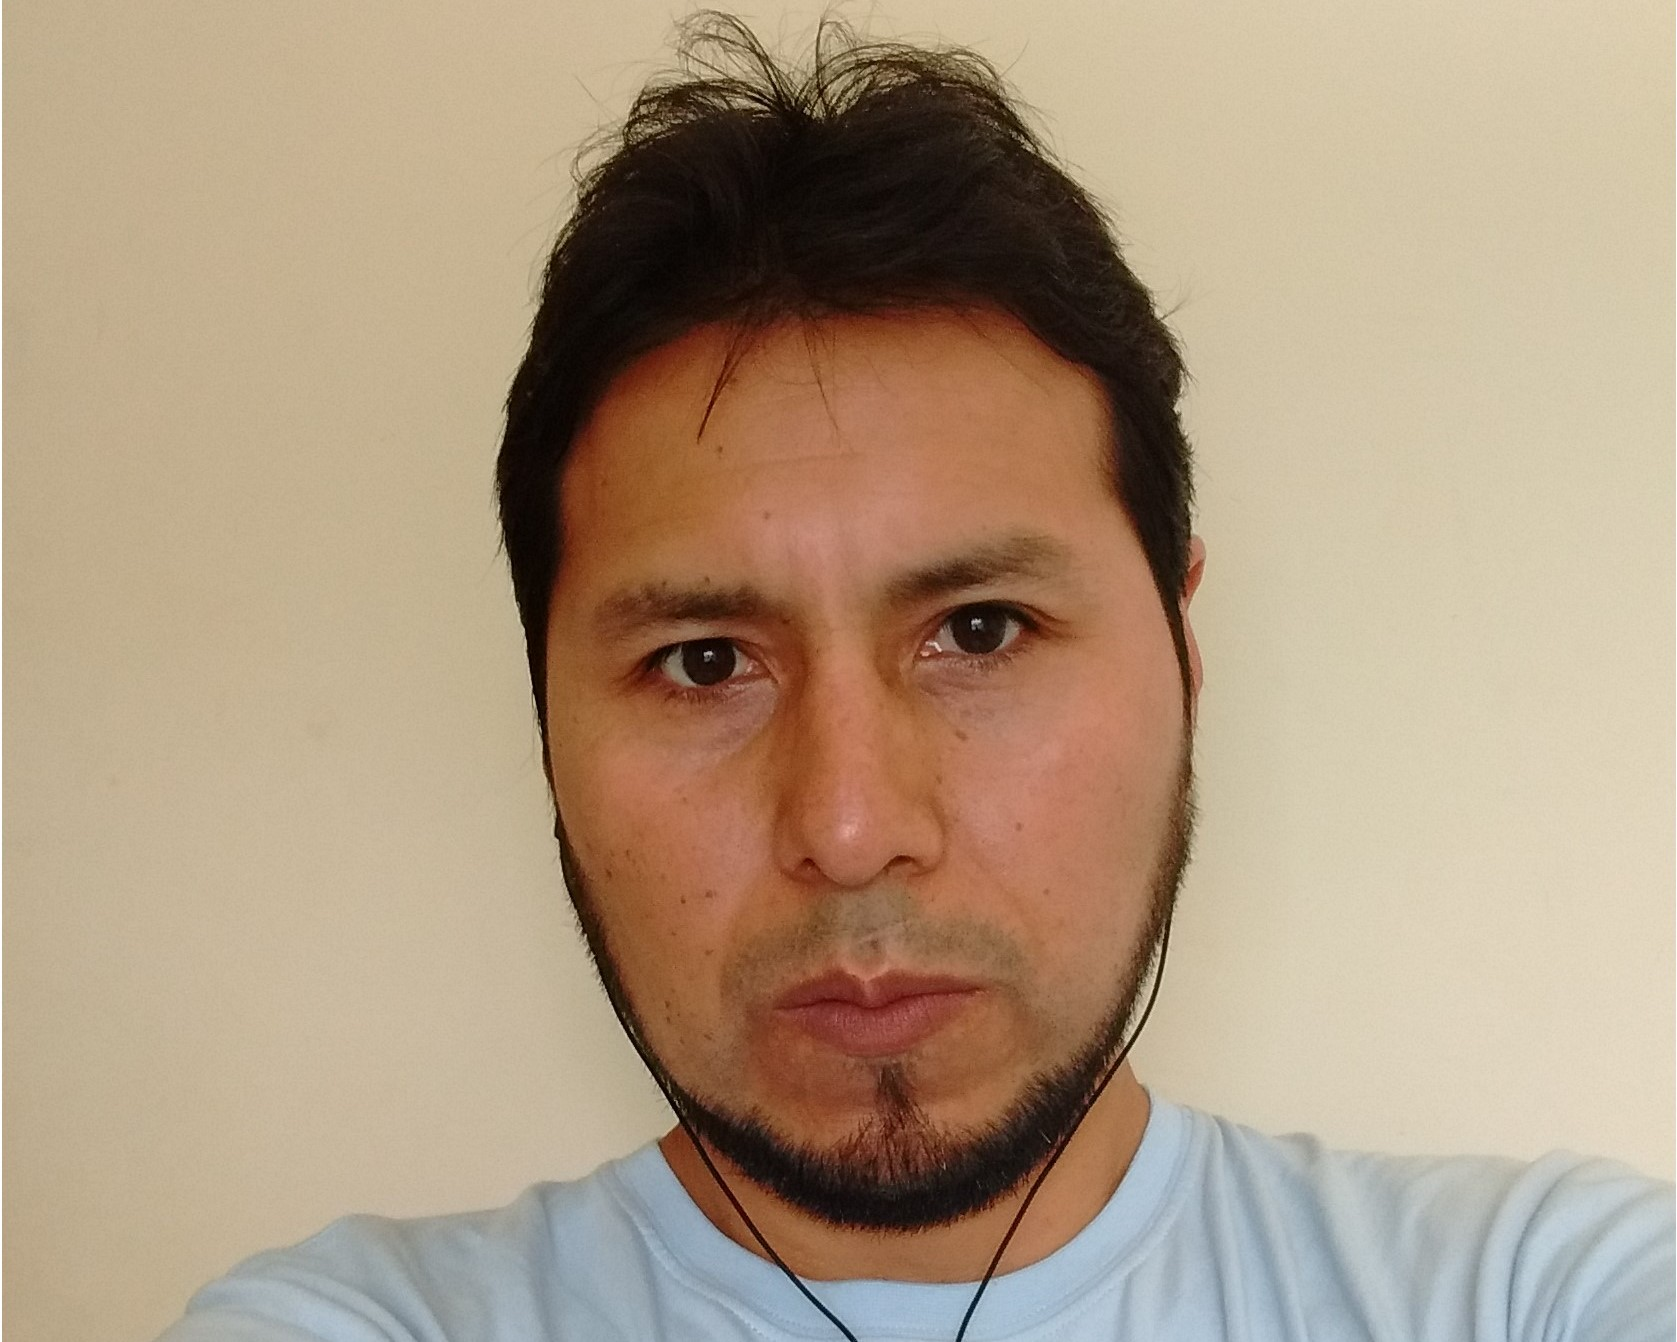
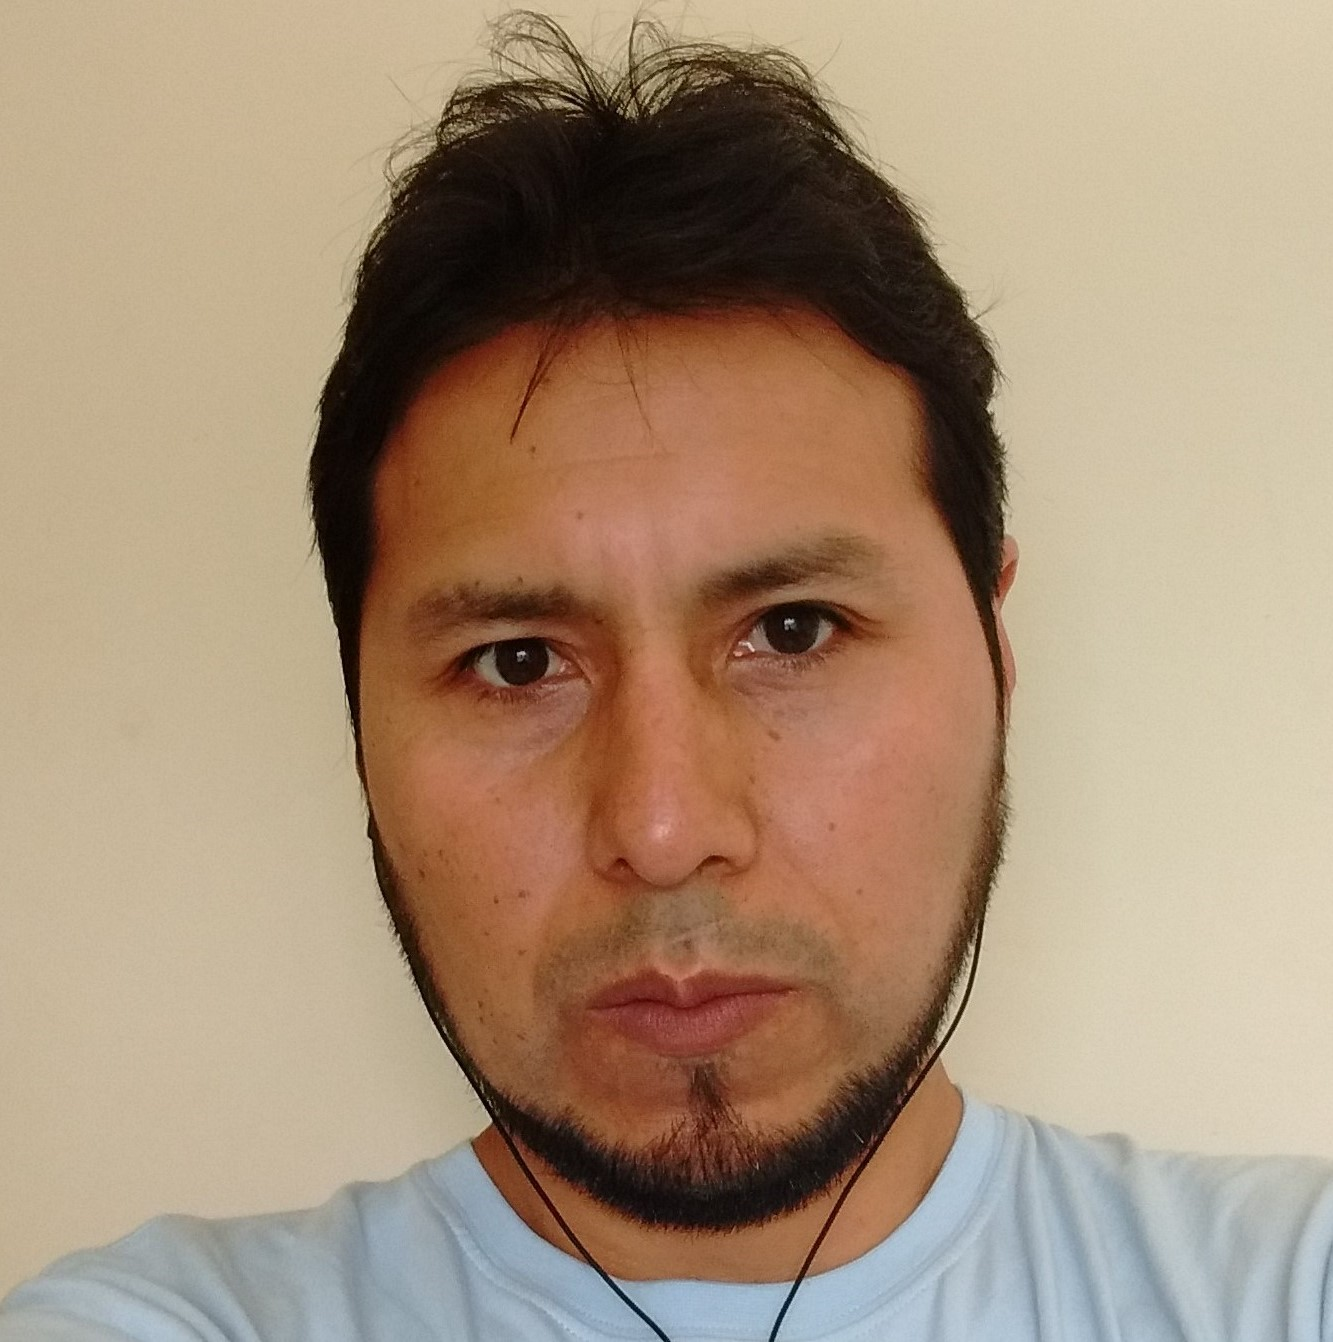
Update images for team members and replace placeholders with actual photos

diff --git a/generic.html b/generic.html
@@ -167,7 +167,7 @@
 								</article>						
 								<article class="style2">
 									<span class="image">
-										<img src="images/pic02.jpg" alt="" />
+										<img src="images/chucuya.jpg" alt="" />
 									</span>
 									<a href="https://ctivitae.concytec.gob.pe/appDirectorioCTI/VerDatosInvestigador.do?id_investigador=285350">
 										<h2>Ing. Samuel Cecilio Chucuya Mamani</h2>
@@ -181,7 +181,7 @@
 								</article>						
 								<article class="style2">
 									<span class="image">
-										<img src="images/pic02.jpg" alt="" />
+										<img src="images/pic06_3.jpg" alt="" />
 									</span>
 									<a href="https://www.researchgate.net/profile/Julia-Cleila-Laura-Quispe">
 										<h2>Ing. Julia Cleila Laura Quispe</h2>
@@ -195,7 +195,7 @@
 								</article>						
 								<article class="style2">
 									<span class="image">
-										<img src="images/pic02.jpg" alt="" />
+										<img src="images/aguilar.jpg" alt="" />
 									</span>
 									<a href="https://dina.concytec.gob.pe/appDirectorioCTI/VerDatosInvestigador.do;jsessionid=b3a5b1a476017999774f67eb972f?id_investigador=142335">
 										<h2>Dr. Carlos Andres Aguilar Maron</h2>
@@ -266,7 +266,7 @@
 								</article>
 								<article class="style5">
 									<span class="image">
-										<img src="images/pic10.jpg" alt="" />
+										<img src="images/german.jpg" alt="" />
 									</span>
 									<a href="https://ctivitae.concytec.gob.pe/appDirectorioCTI/VerDatosInvestigador.do?id_investigador=254364">
 										<h2>German Huayna Felipe</h2>
